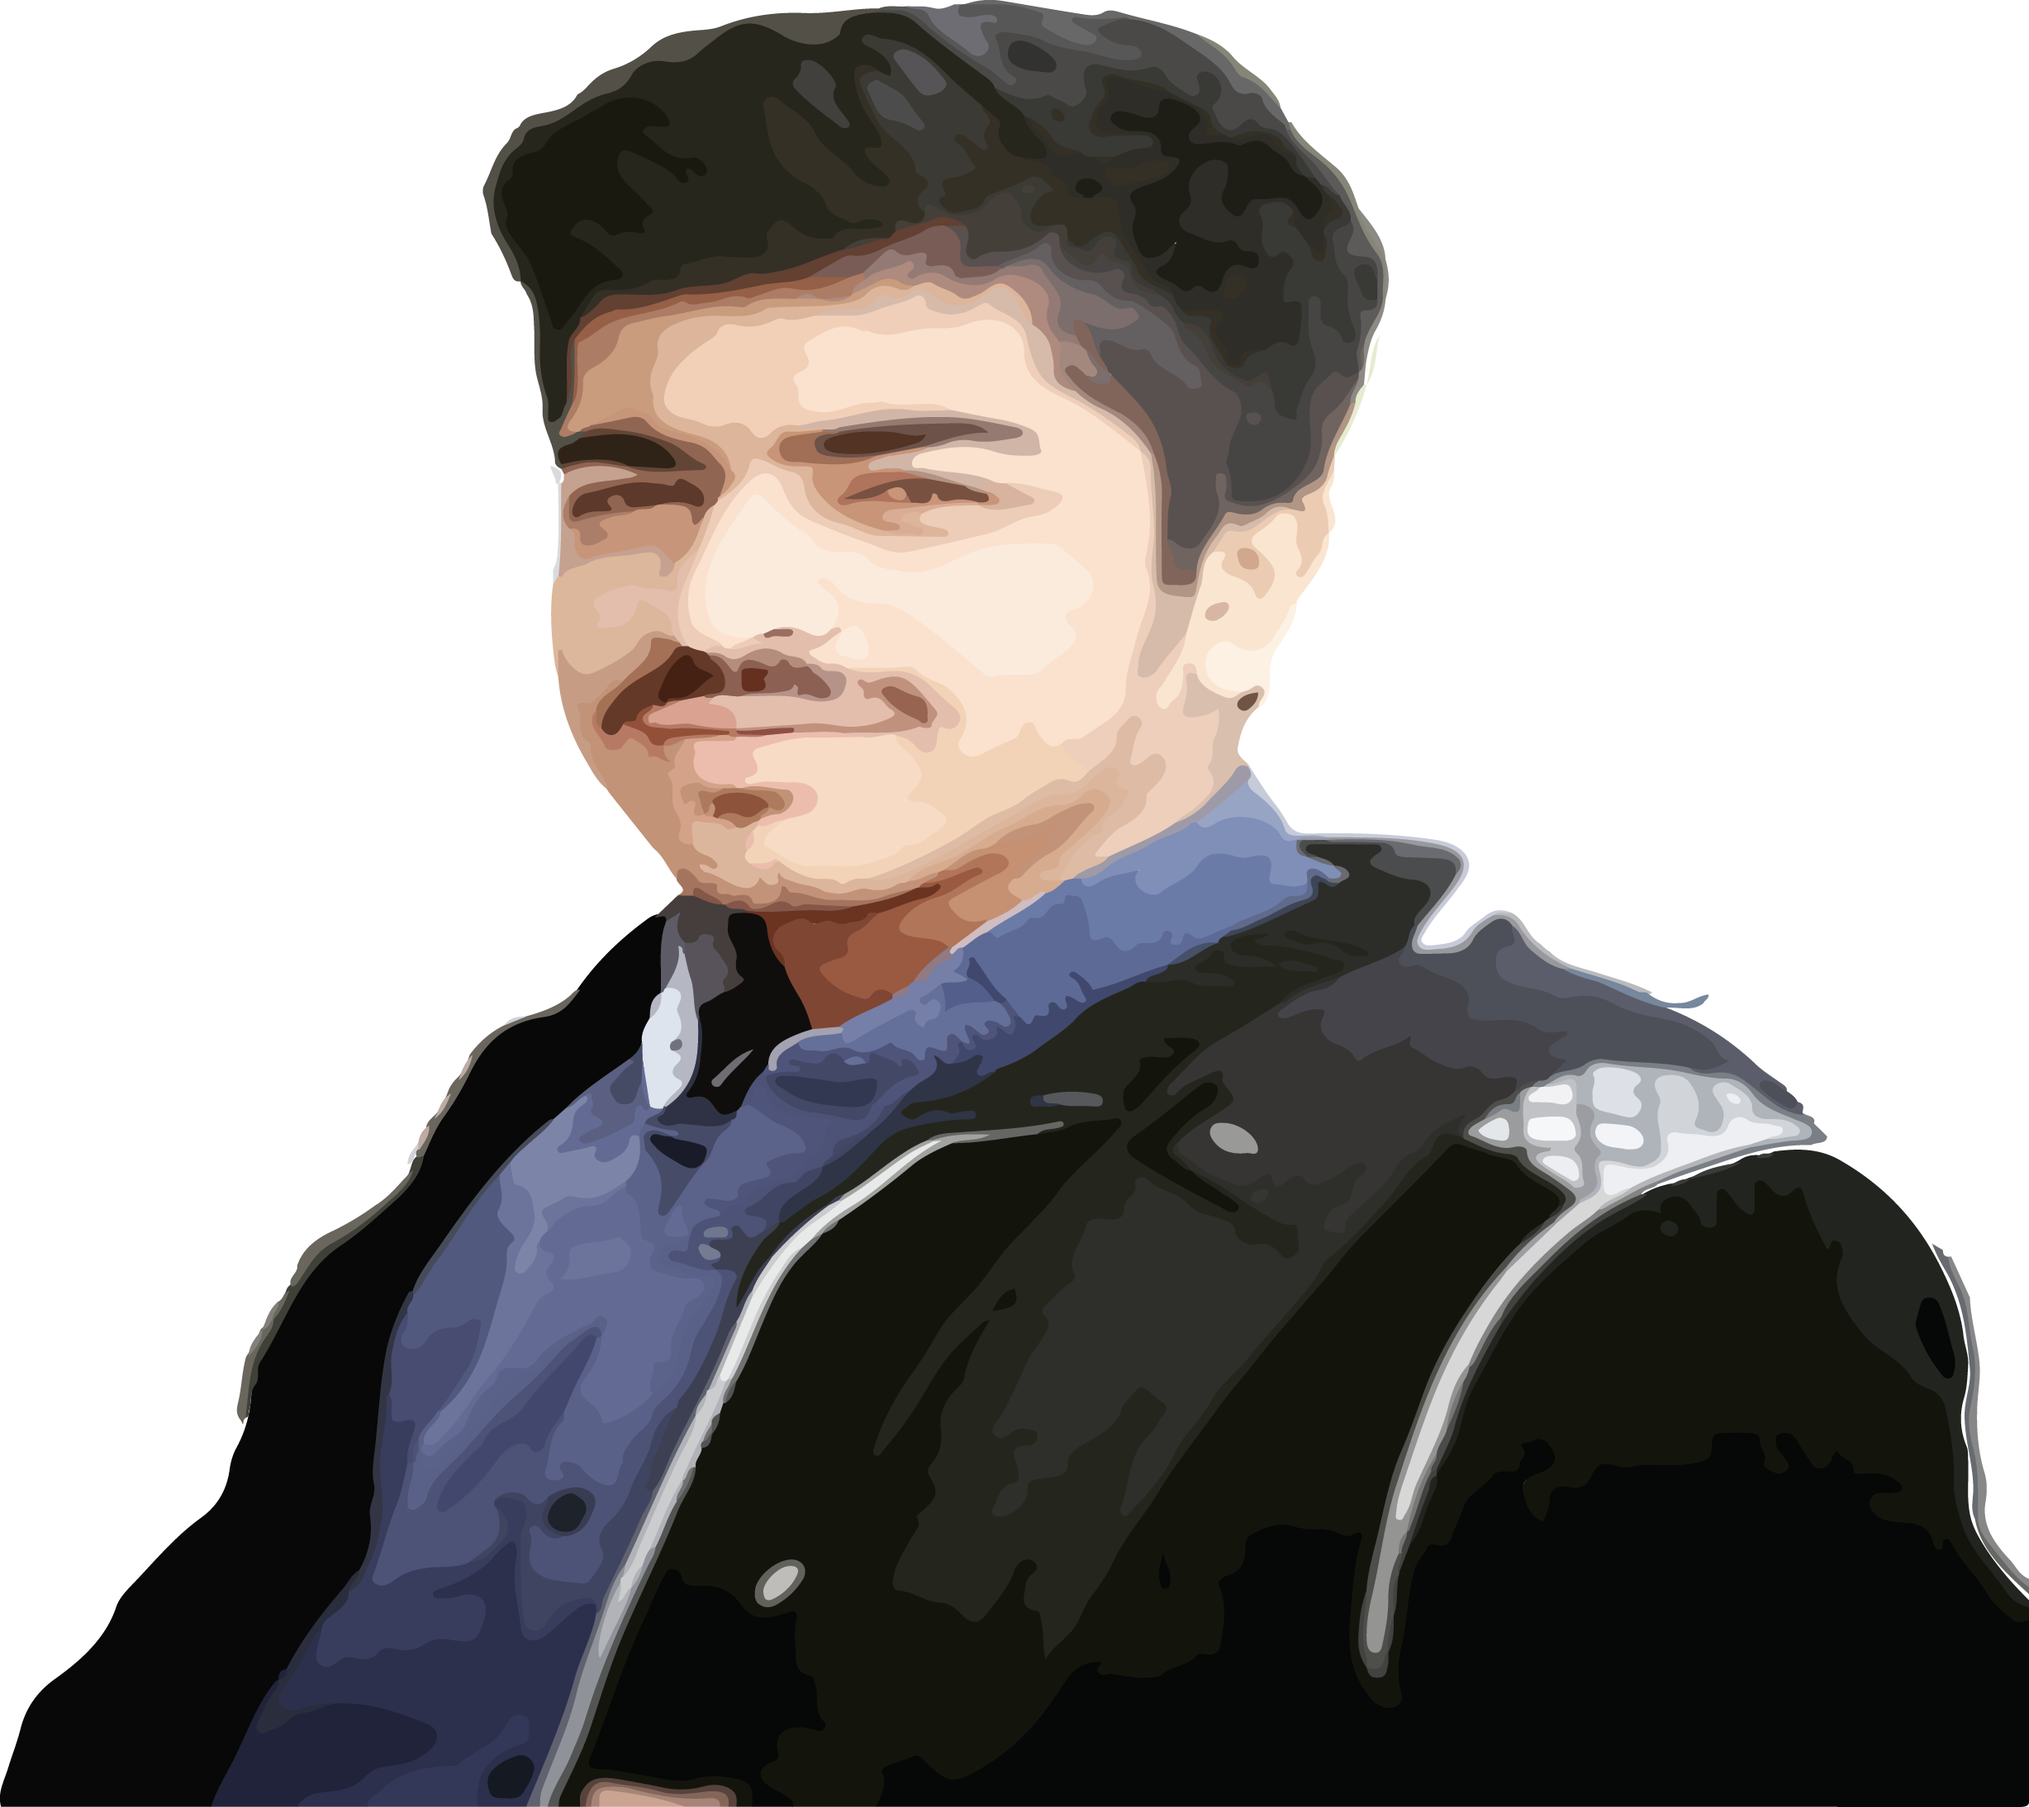
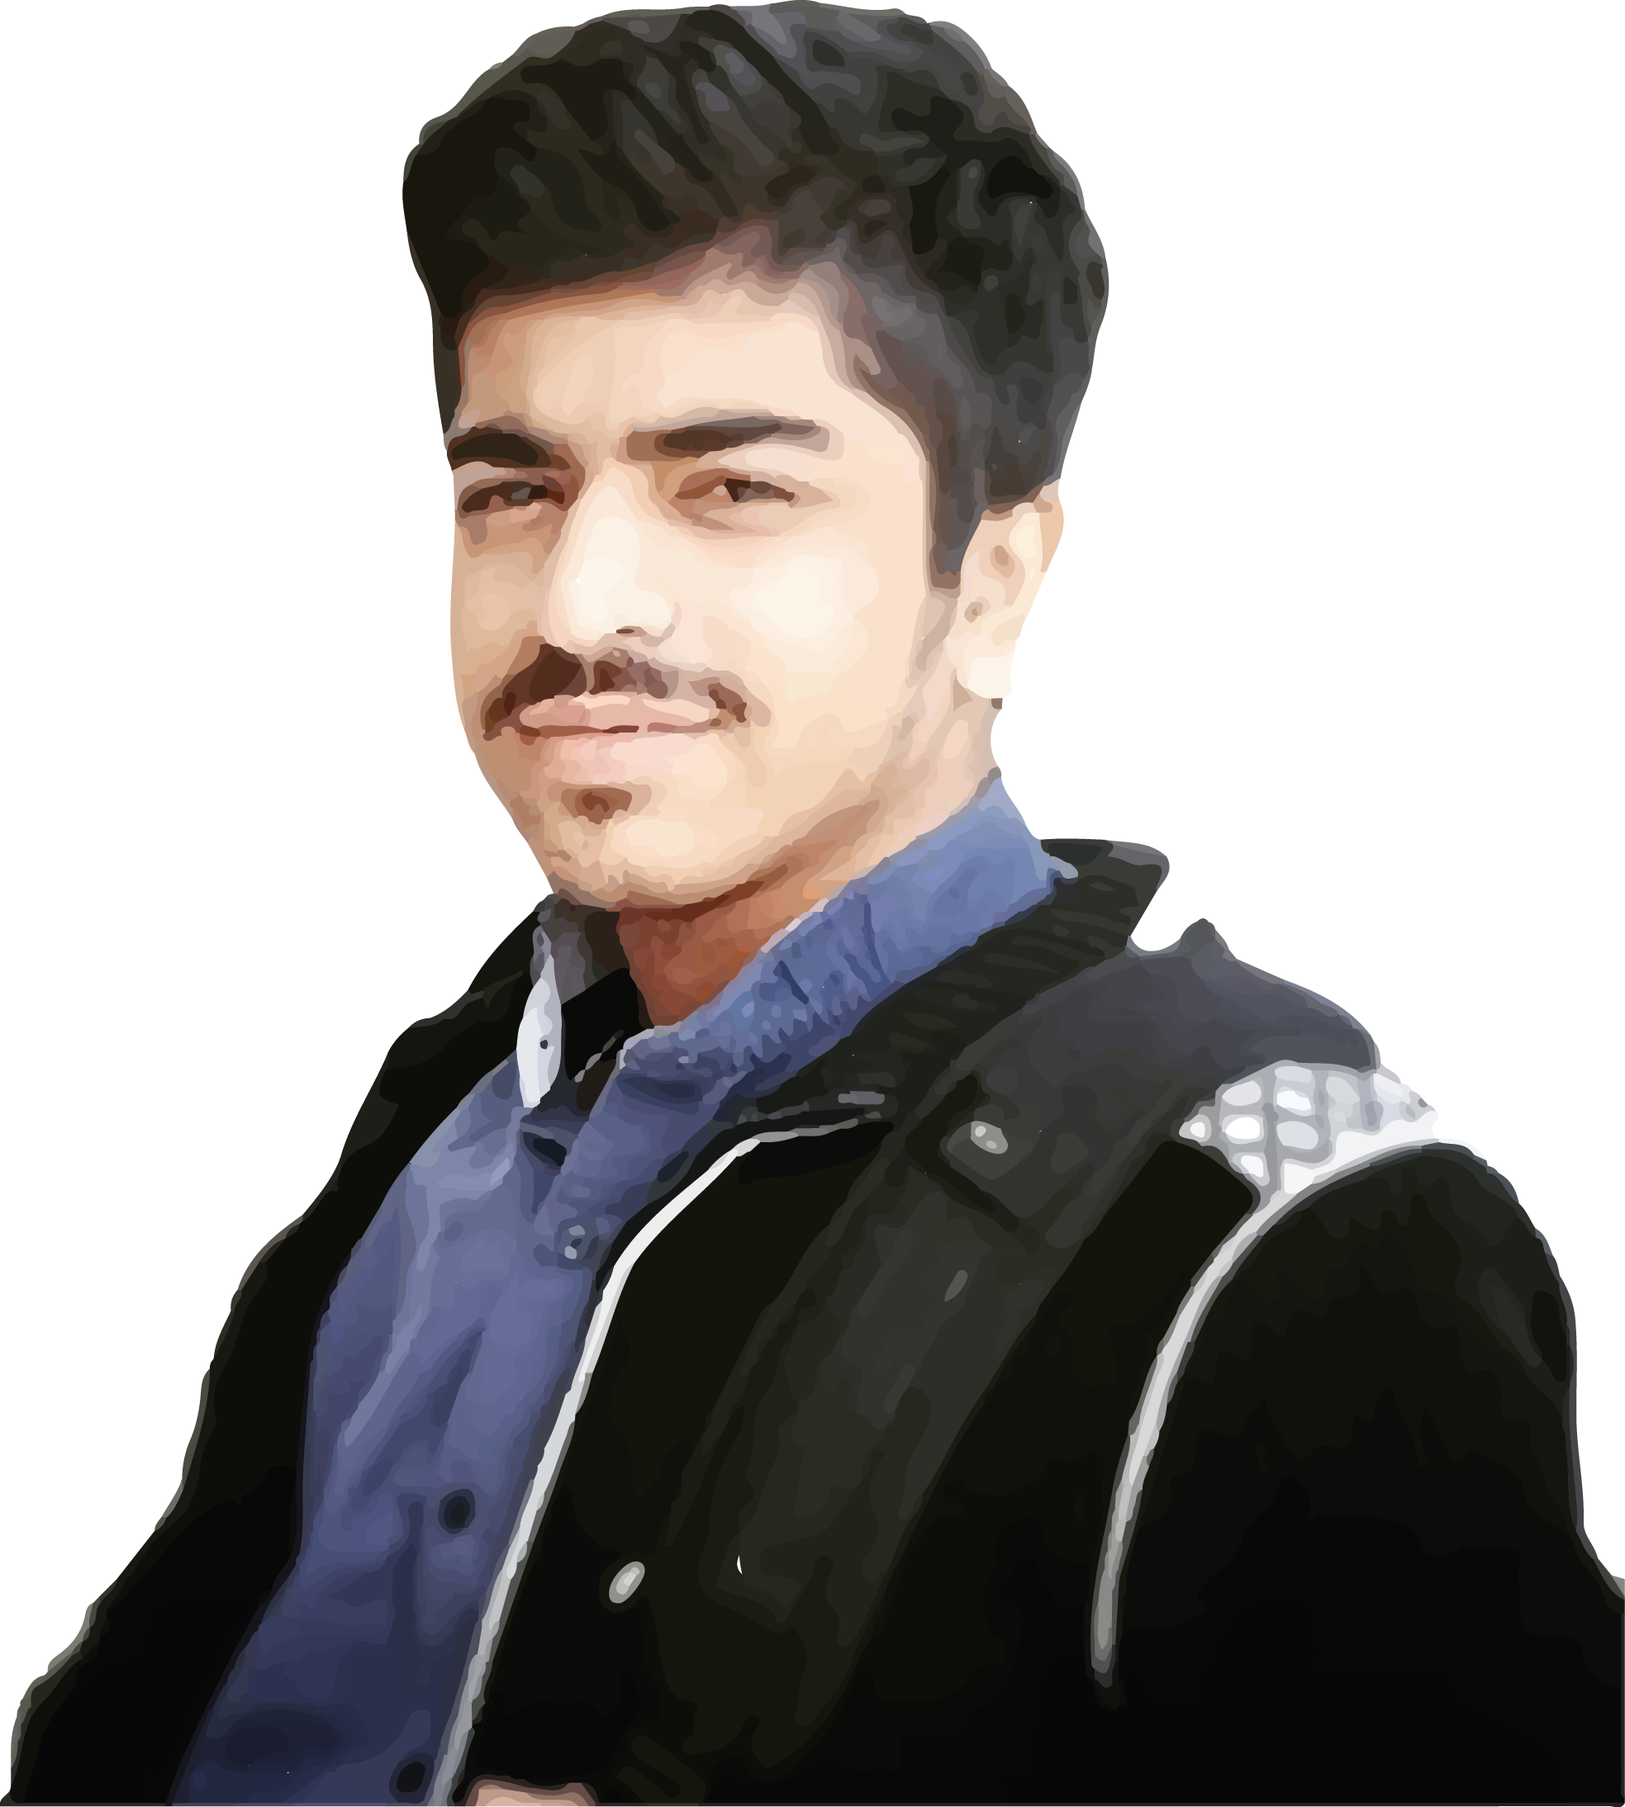
6/7/2020 11:37

diff --git a/public/Resume/index.html b/public/Resume/index.html
@@ -99,12 +99,12 @@
                 <div class="row align-items-center position-relative">
                     <div class="col-lg-9">
                         <div class="slider_text">
-                            <h3>Muhammad Fahad <br>
-                                <span>Creative Director</span></h3>
+                            <h3>Muhammad Fahad</h3>
+                        <h3><span>Software Engineer</span></h3>
                         <a class="boxed-btn3-line" href="#">View Works</a>
                         </div>
                     </div>
-                    <div class="my_img d-none d-lg-block" style="width: 25%;height: 70%;">
+                    <div class="my_img d-none d-lg-block" style="width: 35%;height: 85%;">
                         <img src="img/about/1.png" alt="">
                     </div>
                 </div>
@@ -118,16 +118,15 @@
             <div class="row">
                 <div class="col-xl-10">
                     <div class="download_text">
-                        <h3>I’m a Creative director based on New York, who loves clean, simple & unique design. I also enjoy crafting </h3>
+                        <h3>I AM STUDENT AND I WANT TO BECOME EXPERT IN PROGRAMMING</h3>
                     </div>
                 </div>
             </div>
             <div class="row">
                 <div class="col-lg-6 col-md-6">
                     <div class="download_left">
-                        <p>Proin laoreet elementum ligula, ac tincidunt lorem accumsan nec. Fusce eget urna ante. Donec massa velit, varius a accumsan ac, tempor iaculis massa. Sed placerat justo sed libero varius vulputate. Ut a mi tempus massa malesuada fermentum.
+                        <p>Software Engineer Interns are entry-level professionals who are gaining hands-on experience in a software development company. Job responsibilities of a Software Engineer Intern are understanding client requirements, writing and testing code, helping to develop software solutions, and updating their job knowledge by using the latest development tools. Based on our collection of resumes in the field, most Software Engineer Interns should hold the following skillset: coding abilities, problem solving, teamwork, the willingness to learn new things and to follow instructions, and computer proficiency. Successful example resumes make display of a Bachelor's Degree in computer science or information technology.
                         </p>
-                        <p>Sed eleifend sed nibh nec fringilla. Donec eu cursus sem, vitae tristique ante. Cras pretium rutrum egestas. Integer ultrices libero sed justo vehicula, eget </p>
                         <a href="#" class="boxed-btn3-line">Download CV</a>
                     </div>
                 </div>
@@ -135,7 +134,7 @@
                     <div class="progress_skills">
                         <div class="single_progress">
                             <div class="label d-flex justify-content-between">
-                                <span>Wireframing</span>
+                                <span>Back end</span>
                                 <span>90%</span>
                             </div>
                                 <div class="progress">
@@ -153,11 +152,11 @@
                         </div>
                         <div class="single_progress">
                                 <div class="label d-flex justify-content-between">
-                                        <span>Interaction design</span>
-                                        <span>45%</span>
+                                        <span>Programming</span>
+                                        <span>95%</span>
                                     </div>
                                 <div class="progress">
-                                        <div class="progress-bar" role="progressbar" style="width: 45%" aria-valuenow="25" aria-valuemin="0" aria-valuemax="100"></div>
+                                        <div class="progress-bar" role="progressbar" style="width: 95%" aria-valuenow="25" aria-valuemin="0" aria-valuemax="100"></div>
                                       </div>
                         </div>
                     </div>
@@ -180,12 +179,21 @@
                 <div class="col-lg-4 col-md-6">
                     <div class="single_service text-center">
                         <div class="icon">
+                            <img src="img/svg_icon/3.svg" alt="">
+                        </div>
+                        <h3>E-Commerce Web</h3>
+                        <p>Web Development in Magneto 1.9 on Remote Base(Sep 2019 – Till to day)</p>
+                    </div>
+                </div>
+                <div class="col-lg-4 col-md-6">
+                    <div class="single_service text-center">
+                        <div class="icon">
                             <img src="img/svg_icon/1.svg" alt="">
                         </div>
                         <h3>
-                                Web & Mobile Design
+                                Java Program
                         </h3>
-                        <p>Sed eleifend sed nibh nec fringilla. Donec eu cursus sem vitae tristique ante ibero</p>
+                        <p>Online Examination Management System Java Project.</p>
                     </div>
                 </div>
                 <div class="col-lg-4 col-md-6">
@@ -194,20 +202,9 @@
                             <img src="img/svg_icon/2.svg" alt="">
                         </div>
                         <h3>
-                                Web Development
+                                Website(Vingar-Foods)
                         </h3>
-                        <p>Sed eleifend sed nibh nec fringilla. Donec eu cursus sem vitae tristique ante ibero</p>
-                    </div>
-                </div>
-                <div class="col-lg-4 col-md-6">
-                    <div class="single_service text-center">
-                        <div class="icon">
-                            <img src="img/svg_icon/3.svg" alt="">
-                        </div>
-                        <h3>
-                                E-commerce
-                        </h3>
-                        <p>Sed eleifend sed nibh nec fringilla. Donec eu cursus sem vitae tristique ante ibero</p>
+                        <p>Vingar-Food is a pure (HTML,CSS & JavaScript)</p>
                     </div>
                 </div>
             </div>
@@ -234,8 +231,8 @@
                                     <img src="img/gallery/1.png" alt="">
                                 </div>
                                 <div class="gallery_heading">
-                                    <span>Mobile App</span>
-                                    <a href="works_details.html"><h4>Colorlib App Project</h4></a>
+                                    <span>Mobile Application</span>
+                                    <a href="works_details.html"><h4>Go Commerce App</h4></a>
                                 </div>
                             </div>
                             <div class="single_gallery">
@@ -243,8 +240,8 @@
                                     <img src="img/gallery/2.png" alt="">
                                 </div>
                                 <div class="gallery_heading">
-                                    <span>Mobile App</span>
-                                    <a href="works_details.html"><h4>Colorlib App Project</h4></a>
+                                    <span>Magneto 1.9 on Remote Base</span>
+                                    <a href="works_details.html"><h4>Selection Home</h4></a>
                                 </div>
                             </div>
                         </div>
@@ -254,8 +251,8 @@
                                     <img src="img/gallery/3.png" alt="">
                                 </div>
                                 <div class="gallery_heading">
-                                    <span>Mobile App</span>
-                                    <a href="works_details.html"><h4>Colorlib App Project</h4></a>
+                                    <span>Java Project.</span>
+                                    <a href="works_details.html"><h4>Online Examination Management System Java Project.</h4></a>
                                 </div>
                             </div>
                             <div class="single_gallery">
@@ -263,8 +260,8 @@
                                     <img src="img/gallery/4.png" alt="">
                                 </div>
                                 <div class="gallery_heading">
-                                    <span>Mobile App</span>
-                                    <a href="works_details.html"><h4>Colorlib App Project</h4></a>
+                                    <span>Web development</span>
+                                    <a href="works_details.html"><h4>Vinger Foods website</h4></a>
                                 </div>
                             </div>
                         </div>

diff --git a/public/Resume/css/style.css b/public/Resume/css/style.css
@@ -1444,16 +1444,17 @@ h3 {
 /* line 44, ../../Arafath/CL/Cl November/228. Resume-02/HTML/scss/_slider.scss */
 .slider_area .single_slider .slider_text h3 {
   font-family: "Roboto", sans-serif;
-  font-size: 80px;
+  font-size: 65px;
   text-transform: capitalize;
   font-weight: 300;
-  line-height: 90px;
+  /* line-height: 90px; */
   color: #fff;
-  margin-bottom: 55px;
+  /* margin-bottom: 55px; */
 }
 
 /* line 52, ../../Arafath/CL/Cl November/228. Resume-02/HTML/scss/_slider.scss */
 .slider_area .single_slider .slider_text h3 span {
+  font-size: 50px;
   color: #DB9A64;
 }
 
